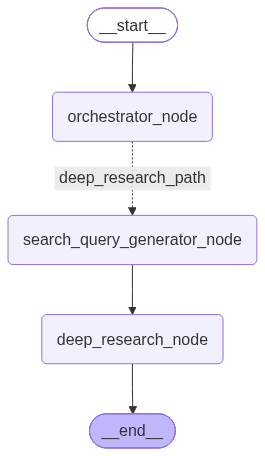
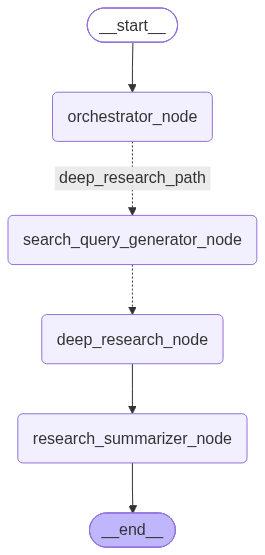
begin packaging of nodes

Changed region(s): [[0.0, 0.1535, 0.9962, 0.8596], [0.3321, 0.8904, 0.6642, 1.0], [0.3019, 0.0, 0.6943, 0.1228]]

diff --git a/graph.py b/graph.py
@@ -18,7 +18,7 @@ from langgraph.config import get_stream_writer
 from langgraph.prebuilt import ToolNode
 from pydantic import BaseModel
 
-from langgraph.types import interrupt, Command
+from langgraph.types import interrupt, Command, Send
 from langgraph.stream import ProtocolEvent, StreamChannel, StreamTransformer
 from langgraph.checkpoint.memory import InMemorySaver
 
@@ -29,6 +29,10 @@ from langsmith import traceable
 
 # tool imports
 from tools.deep_research import arxiv_search_tool, duckduckgo_search_tool
+
+
+
+import operator
 
 
 # Configs
@@ -46,11 +50,15 @@ with open('prompts/02_deep_research_node/01_query_generator_sys_msg.txt', 'r') a
 with open('prompts/02_deep_research_node/02_deep_research_sys_msg.txt', 'r') as file:
     DEEP_RESEARCH_SYS_MSG_FILE = file.read()
 
+with open('prompts/02_deep_research_node/03_summarizer_sys_msg.txt', 'r') as file:
+    SUMMARIZER_SYS_MSG_FILE = file.read()
+
 
 
 ORCHESTRATOR_SYS_MSG = SystemMessage(content=ORCHESTRATOR_SYS_MSG_FILE)
 QUERY_GENERATOR_SYS_MSG = SystemMessage(content=QUERY_GENERATOR_SYS_MSG_FILE)
 DEEP_RESEARCH_SYS_MSG = SystemMessage(content=DEEP_RESEARCH_SYS_MSG_FILE)
+SUMMARIZER_SYS_MSG = SystemMessage(content=SUMMARIZER_SYS_MSG_FILE)
 
 
 
@@ -103,10 +111,10 @@ class Classification(BaseModel):
 
 
 class ResearchFormat(BaseModel):
-    reseach_results: str = Field(
+    research_results: str = Field(
         # min_length=100,  # Minimum character count
         # max_length=2000, # Maximum character count
-        description="Summarized findings from search results."
+        description="Report findings from the research topic."
     )
 
 
@@ -174,16 +182,22 @@ class QueryGeneratorOutputState(TypedDict):
     query_list: list[str]
 
 
+
 class DeepResearchInputState(TypedDict):
     """Input state required by the `deep_research_node`"""
-    query_list: list[str]
+    query: str
 
 
 class DeepResearchOutputState(TypedDict):
     """Output state produced by the `deep_research_node"""
-    reseach_results: list[str]
+    reseach_results: Annotated[list[str], operator.add]
 
 
+
+class ResearchSummarizerOutputState(TypedDict):
+    """Output state produced by the `research_summarizer_node"""
+
+    summarized_results: str
 
 
 ### deep research tools
@@ -233,6 +247,7 @@ def search_query_generator_node(state: QueryGeneratorInputState) -> QueryGenerat
     ### insert llm logic to generate queries
     query_generator_llm = base_llm.with_structured_output(QueryList)
 
+    # TODO: rethink if we should pass the entire convo `state['messages]` or just the user query `state['user_query]`
     conversation_history = [QUERY_GENERATOR_SYS_MSG] + state['messages']
 
     generated_queries: QueryList = query_generator_llm.invoke(input=conversation_history)
@@ -244,39 +259,69 @@ def search_query_generator_node(state: QueryGeneratorInputState) -> QueryGenerat
 
 
 
+
+def continue_to_deep_research(state: QueryGeneratorOutputState):
+    """Fan out generated search queries to parallel deep research nodes."""
+
+    return [
+        Send("deep_research_node", {"query": query}) 
+        for query in state['query_list']
+    ]
+
+
 def deep_research_node(state: DeepResearchInputState) -> DeepResearchOutputState:
     """Conduct deep research using LLM"""
 
     research_llm = base_llm.with_structured_output(ResearchFormat)
 
+    # format the query
+    query = f"Please make a report on the following research Topic: {state['query']}"
+    
+    conversation_history = [DEEP_RESEARCH_SYS_MSG] + [HumanMessage(query)]
 
-    research_results = []
-
-    for query in state['query_list']:
-
-        # format the query
-        query = f"Research Topic: {query}"
-        
-        conversation_history = [DEEP_RESEARCH_SYS_MSG] + [HumanMessage(query)]
-
-        result: ResearchFormat = research_llm.invoke(input=conversation_history)
-        research_results.append(result)
-
+    result: ResearchFormat = research_llm.invoke(input=conversation_history)
 
     return {
-        "reseach_results": [result.reseach_results for result in research_results]
+        "reseach_results": [result.research_results]
     }
 
 
+def research_summarizer_node(state: DeepResearchOutputState) -> ResearchSummarizerOutputState:
+    """Aggregate and summarize individual research results collected from parallel deep research nodes."""
+
+    # 1. Access the aggregated list of results from state
+    results = state.get("reseach_results", [])
+
+    if not results:
+        return {"summarized_results": "No research results available to summarize."}
+
+    # 2. Format the combined research payload for the LLM
+    formatted_results = "\n\n---\n\n".join(
+        f"Result {i+1}:\n{res}" for i, res in enumerate(results)
+    )
+
+    prompt = f"Synthesize the following research findings:\n\n{formatted_results}"
+    conversation_history = [SUMMARIZER_SYS_MSG, HumanMessage(content=prompt)]
+
+    # 3. Call the base LLM (or a structured output LLM)
+    response = base_llm.invoke(conversation_history)
+
+    # 4. Return the finalized summary
+    return {
+        "summarized_results": response.content
+    }
+
+
+
+
 def main():
-
-
 
     workflow = (
         StateGraph(OverallState, input_schema=InputState, output_schema=OutputState)
             .add_node("orchestrator_node", orchestrator_node)
             .add_node("search_query_generator_node", search_query_generator_node)
             .add_node("deep_research_node", deep_research_node)
+            .add_node("research_summarizer_node", research_summarizer_node)
 
             .add_edge(START, "orchestrator_node")
             
@@ -291,9 +336,11 @@ def main():
             )
             
 
-            .add_edge("search_query_generator_node", "deep_research_node")
-            .add_edge("deep_research_node", END)
-
+            # .add_edge("search_query_generator_node", "deep_research_node")
+            .add_conditional_edges("search_query_generator_node", continue_to_deep_research, ["deep_research_node"])
+            .add_edge("deep_research_node", "research_summarizer_node")
+            .add_edge("research_summarizer_node", END)
+            
             .compile(checkpointer=InMemorySaver())
 
 

diff --git a/nodes/orchestrator/orchestrator_node.py b/nodes/orchestrator/orchestrator_node.py
@@ -1,0 +1,73 @@
+# Standard Libraies
+from typing import Annotated, Sequence, TypedDict, Literal
+
+# pydantic
+from pydantic import BaseModel, Field
+
+from langgraph.graph.message import add_messages
+from langchain_core.messages import BaseMessage, SystemMessage
+from langsmith import traceable
+from langgraph.config import get_stream_writer
+
+class Classification(BaseModel):
+    """A single routing decision: which agent to call with what query."""
+    destination_node: Literal[
+        "deep_research", 
+        # "risk_assessment"
+    ] = Field(
+        description="The next specialized node to handle the task"
+    )
+
+
+
+class OrchestratorInputState(TypedDict):
+    """Input state required by the orchestrator node to make routing decisions."""
+    messages: Annotated[Sequence[BaseMessage], add_messages]
+    user_query: str
+
+
+
+class OrchestratorOutputState(TypedDict):
+    """Output state produced by the orchestrator node containing the routing classification."""
+    destination_node: Literal[
+        "deep_research", 
+        # "risk_assesssment"
+    ]
+
+
+# Supervisor Node
+@traceable(run_type="chain")
+def orchestrator_node(
+        base_llm, 
+        system_message: SystemMessage, 
+        state: OrchestratorInputState
+    ) -> OrchestratorOutputState:
+
+    """Routes node based on user request"""
+
+    writer = get_stream_writer()
+    writer({"status": "Orchestrator: Routing user request..."})
+
+    orchestrator_llm = base_llm.with_structured_output(Classification)
+
+    conversation_history = [system_message] + state['messages']
+
+    orchestrator_response: Classification = orchestrator_llm.invoke(input=conversation_history)
+
+
+    return {
+        "destination_node": orchestrator_response.destination_node
+    }
+
+
+# Routing function
+def route_to_agent(state: OrchestratorOutputState) -> str:
+    """For orchestrator routing to agents"""
+    destination_node = state['destination_node']
+
+    if destination_node == "deep_research":
+        return "deep_research_path"
+    
+    # elif destination_node == "risk_assesssment":
+    #     return "risk_assesssment_path"
+

diff --git a/scratch.py b/scratch.py
@@ -1,0 +1,3 @@
+from nodes import orchestrator_node, route_to_agent
+
+print(orchestrator_node)

diff --git a/nodes/__init__.py b/nodes/__init__.py
@@ -1,0 +1,1 @@
+from .orchestrator.orchestrator_node import orchestrator_node, route_to_agent
